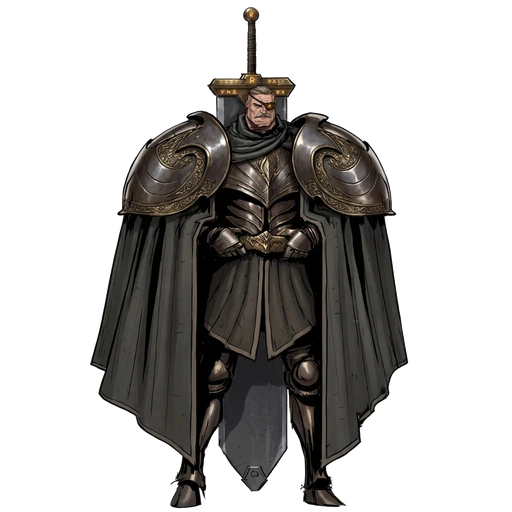
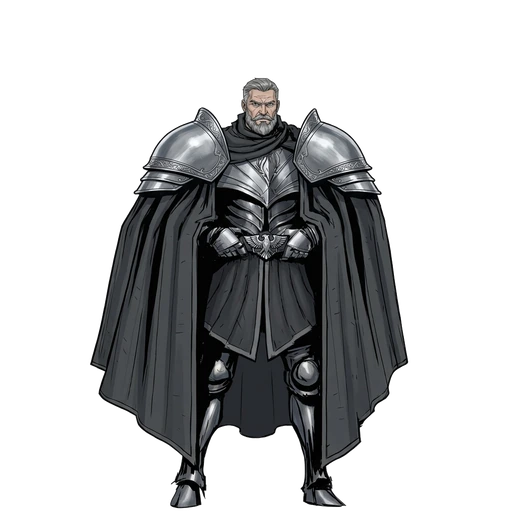
fix(art): update Vaelor with neutral silver-grey palette, proportional pauldrons, no sword on back, no eyepatch (v91)

diff --git a/src/data/cardArtPrompts.ts b/src/data/cardArtPrompts.ts
@@ -1077,7 +1077,7 @@ export const CARD_ART_PROMPTS: Record<string, string> = {
   "blue_181_selene_estrategista_egide_lunar": "2D Dark Fantasy gothic baroque cel-shaded ink illustration, noble Lunar-Aegis Strategist General Selene wearing a tall silver crescent-plumed helm with white fur crest, silver scale-and-plate armor over royal sapphire-blue astral robes embroidered with golden constellations, carrying a massive sculpted silver tower shield emblazoned with a glowing ice-cyan crescent moon on her right arm while summoning a floating golden chrono-astrolabe above her raised left hand on pure white background.",
   "neutral_179_aldric_marechal_lobo_prateado": "2D Dark Fantasy gothic baroque cel-shaded ink illustration, veteran Silver-Wolf Marshal Aldric with white hair and beard crowned by a silver-and-brass circlet, ornate silver plate armor with a sculpted wolf-head chest medallion inset with jade, thick white wolf-fur collar, slate-teal war-cloak with golden aiguillettes, resting his right hand on a colossal planted gold-and-steel runic broadsword on pure white background.",
   "neutral_180_garruk_bastiao_ferro_veterano": "2D Dark Fantasy gothic baroque cel-shaded ink illustration, hulking Iron-Bastion Veteran General Garruk with scarred face and short silver beard, wearing massive layered steel pauldrons, embossed iron-and-brass fortress breastplate over charcoal-and-crimson mercenary gambeson, oversized siege gauntlet on his left arm, and right hand resting on a planted flat-tipped executioner greatsword with glowing amber forge-runes on pure white background.",
-  "neutral_181_vaelor_lorde_comandante_olho_ferro": "2D Dark Fantasy gothic baroque cel-shaded ink illustration, monolithic Iron-Eye Lord-Commander Vaelor with grizzled mustache and glowing amber runic eyepatch, enormous curved crescent-wing steel pauldrons trimmed in antique brass, long dark battle cloak, hands resting on his brass eagle belt buckle, and a colossal slab-greatsword strapped vertically behind his back on pure white background.",
+  "neutral_181_vaelor_lorde_comandante_olho_ferro": "2D Dark Fantasy gothic baroque cel-shaded ink illustration, stern Lord-Commander Vaelor with silver-grey hair and beard and both steel-grey eyes (no eyepatch), wearing well-proportioned brushed silver-steel layered knight pauldrons with subtle filigree, slate-grey and gunmetal breastplate, long charcoal-grey battle cloak, and hands resting on his silver eagle belt buckle (no sword on back) on pure white background.",
   "green_179_brennus_marechal_manto_musgo": "2D Dark Fantasy gothic baroque cel-shaded ink illustration, towering Moss-Mantle Sylvan Marshal Brennus in full dark steel-and-bronze filigree plate armor including heavy articulated steel cuisses, knee-guards, and greaves (no cloth skirt), overgrown with living chartreuse moss on shoulders, crowned with golden-oak stag antlers and glowing emerald eyes, emerald sap-gem on chestplate, sweeping moss-and-fern war cloak, and wielding a moss-covered runic broadsword on pure white background.",
   "green_180_flora_dama_florescer_perene": "2D Dark Fantasy painterly concept art illustration, serene Perennial-Bloom Female Knight-General Flora standing in a 100% frontal heroic posture facing directly forward, wearing sculpted ironwood-and-bronze plate armor with an open-visored helm crowned with golden-jade leaves, blooming pink cherry-blossom branches growing from her shoulders and trailing root-cloak, emerald gem set into her ornate bronze belt, and both gauntleted hands resting naturally on the pommel of a tall planted living-wood and emerald greatsword on pure white background.",
   "green_181_verbena_marechal_cardo_real": "2D Dark Fantasy gothic baroque cel-shaded ink illustration, slender Royal-Thistle Female Spear-Marshal Verbena in sculpted emerald leaf-scale plate armor with gold filigree and glowing sap-veins, crowned by a colossal blooming royal-violet thistle flower over a golden-emerald diadem, tattered leaf-wing cape, wielding a thorny living-briar lance in her right hand and a giant sculpted leaf tower-shield on her left arm on pure white background.",

diff --git a/src/components/CardView.tsx b/src/components/CardView.tsx
@@ -496,7 +496,7 @@ export const CardView: React.FC<CardViewProps> = ({
           <div className={`cpa-token-art aura-${displayCard.domain}`}>
             {!imgError && displayCard.imagePath ? (
               <img
-                src={`${displayCard.imagePath}?v=76`}
+                src={`${displayCard.imagePath}?v=77`}
                 alt={displayName}
                 className="cpa-token-img"
                 onError={() => setImgError(true)}
@@ -667,7 +667,7 @@ export const CardView: React.FC<CardViewProps> = ({
 
           {!imgError && displayCard.imagePath ? (
             <img
-              src={`${displayCard.imagePath}?v=76`}
+              src={`${displayCard.imagePath}?v=77`}
               alt={displayName}
               className="card-cutout-img"
               onError={() => setImgError(true)}

diff --git a/public/sw.js b/public/sw.js
@@ -1,4 +1,4 @@
-const CACHE_VERSION = 'chromatic-pact-v90';
+const CACHE_VERSION = 'chromatic-pact-v91';
 const ASSET_CACHE = `${CACHE_VERSION}-assets`;
 
 const PRECACHE_URLS = [
